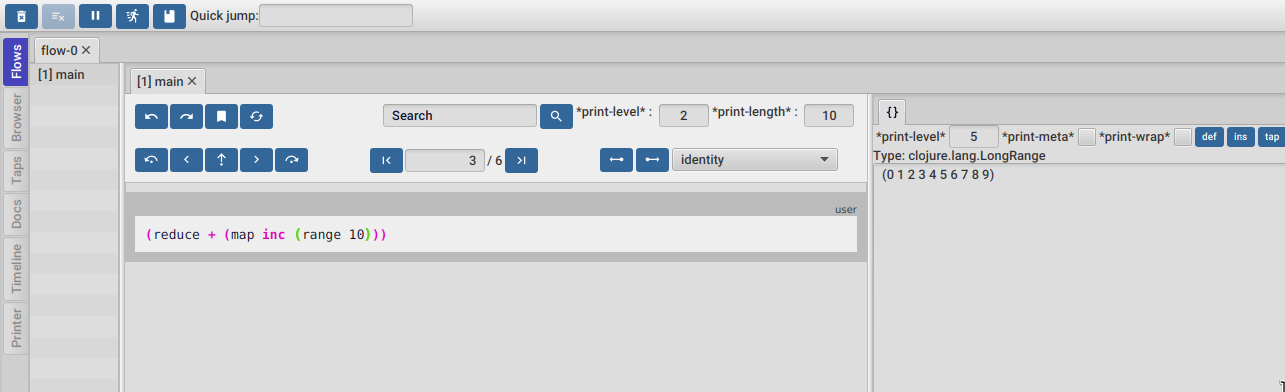
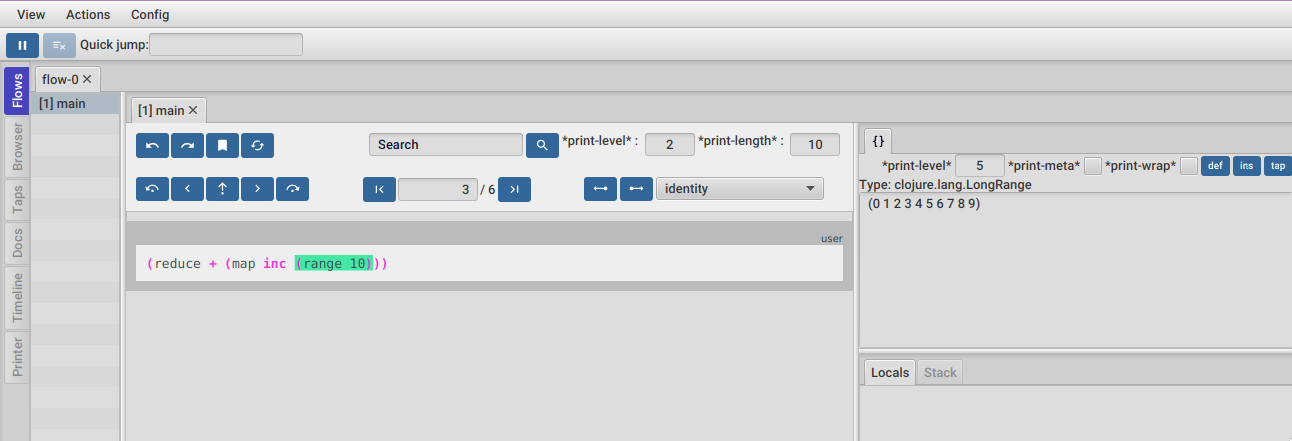
Updating user guide and readme

diff --git a/docs/user_guide.html b/docs/user_guide.html
@@ -685,7 +685,7 @@ pre.rouge {
 <li><a href="#_docker">2.1. Docker</a></li>
 </ul>
 </li>
-<li><a href="#_instrument_code">3. Instrument code</a>
+<li><a href="#_instrument_code_vanilla_only">3. Instrument code (vanilla only)</a>
 <ul class="sectlevel3">
 <li><a href="#_instrument_from_the_repl">3.1. Instrument from the repl</a>
 <ul class="sectlevel4">
@@ -1669,7 +1669,7 @@ that the debugger websocket server is running on the default port.</p>
 </div>
 </div>
 <div class="sect2">
-<h3 id="_instrument_code"><a class="anchor" href="#_instrument_code"></a><a class="link" href="#_instrument_code">3. Instrument code</a></h3>
+<h3 id="_instrument_code_vanilla_only"><a class="anchor" href="#_instrument_code_vanilla_only"></a><a class="link" href="#_instrument_code_vanilla_only">3. Instrument code (vanilla only)</a></h3>
 <div class="admonitionblock note">
 <table>
 <tr>
@@ -1679,7 +1679,7 @@ that the debugger websocket server is running on the default port.</p>
 <td class="content">
 <div class="title">ClojureStorm</div>
 <div class="paragraph">
-<p>Instructions here only apply to vanilla <em>FlowStorm</em>. If you are using <em>ClojureStorm</em> or <em>ClojureScriptStorm</em>
+<p>Instructions here only apply to vanilla <em>FlowStorm</em>. If you are using <em>ClojureStorm</em> or <em>ClojureScriptStorm</em> (recommended)
 this is done automatically for you, so just skip this section.</p>
 </div>
 </td>
@@ -1894,7 +1894,7 @@ and then clicking <code>Fully instrument this form</code>.</p>
 <div class="sect2">
 <h3 id="_flows_tool"><a class="anchor" href="#_flows_tool"></a><a class="link" href="#_flows_tool">4. Flows tool</a></h3>
 <div class="paragraph">
-<p>The <code>Flows</code> tab contains a bunch of tools for analyzing all traced executions flows.</p>
+<p>The <code>Flows</code> tab contains a bunch of tools for analyzing all recorded executions.</p>
 </div>
 <div class="paragraph">
 <p>Flows are identified by a flow-id and can be started by running a form with <code>#rtrace</code>, <code>#rtrace1</code>, <code>#rtrace2</code>, etc,.
@@ -2322,15 +2322,11 @@ you to mark execution positions so you can come back to them later.</p>
 </div>
 </div>
 <div class="paragraph">
-<p>You can bookmark the current position by pressing the bookmark button. It will ask you the bookmark description.</p>
-</div>
-<div class="imageblock">
-<div class="content">
-<img src="user_guide_images/bookmarks_open_btn.png" alt="bookmarks open btn">
-</div>
+<p>You can bookmark the current position by pressing the bookmark button in the code tool, next to your stepping controls.
+It will ask you the bookmark description.</p>
 </div>
 <div class="paragraph">
-<p>Use the button open button to open the bookmarks panel.</p>
+<p>You can find you bookmarks on the top menu <code>View &#8594; Bookmarks</code>.</p>
 </div>
 <div class="imageblock">
 <div class="content">
@@ -2929,19 +2925,10 @@ global limits definitions.</p>
 <div class="ulist">
 <ul>
 <li>
-<p>Clean all. Will clean all flows, taps and every value the debugger is retaining.</p>
-</li>
-<li>
-<p>Cancel current running task. If the debugger is taking too long with something and you want to cancel it use this button.</p>
-</li>
-<li>
 <p>Start/Stop recording. You can keep code instrumented but keep your heap from growing by stopping recording when you are not debugging.</p>
 </li>
 <li>
-<p>Unblock all breakpoint blocked threads if any.</p>
-</li>
-<li>
-<p>Open the bookmarks window.</p>
+<p>Cancel current running task. Whenever you a running a task that can take some time, this button will be red, and you can use it to cancel the task.</p>
 </li>
 <li>
 <p>Quick jump. Use it for quickly jumping to the first recording of a function. Will autocomplete the first 25 matches.</p>
@@ -3751,7 +3738,7 @@ by providing <code>:verbose? true</code> to the options map.</p>
 </div>
 <div id="footer">
 <div id="footer-text">
-Last updated 2024-03-06 10:33:56 -0300
+Last updated 2024-03-19 12:01:37 -0300
 </div>
 </div>
 </body>
